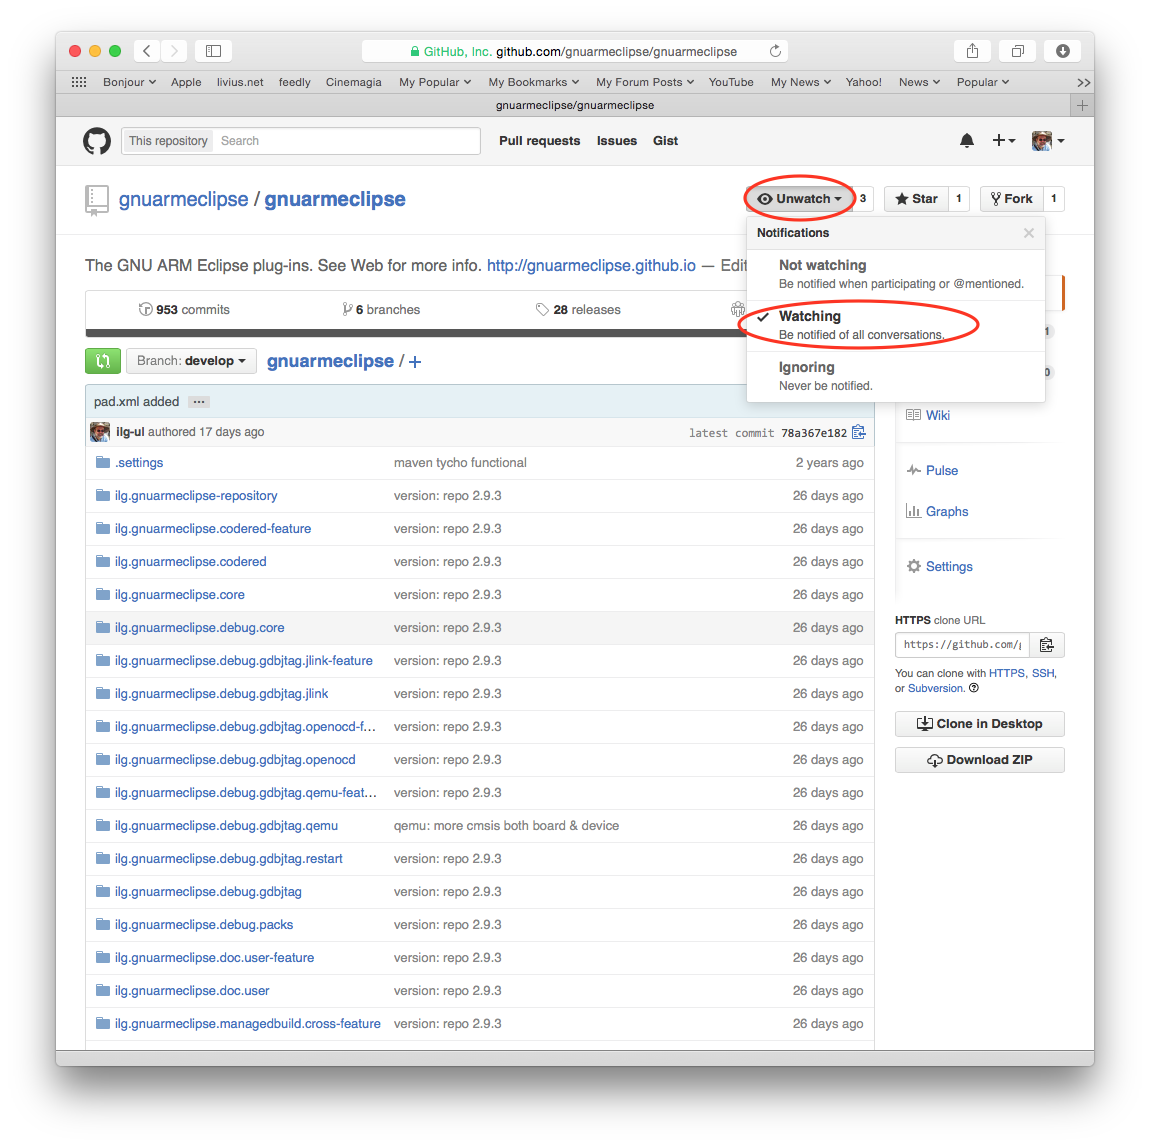
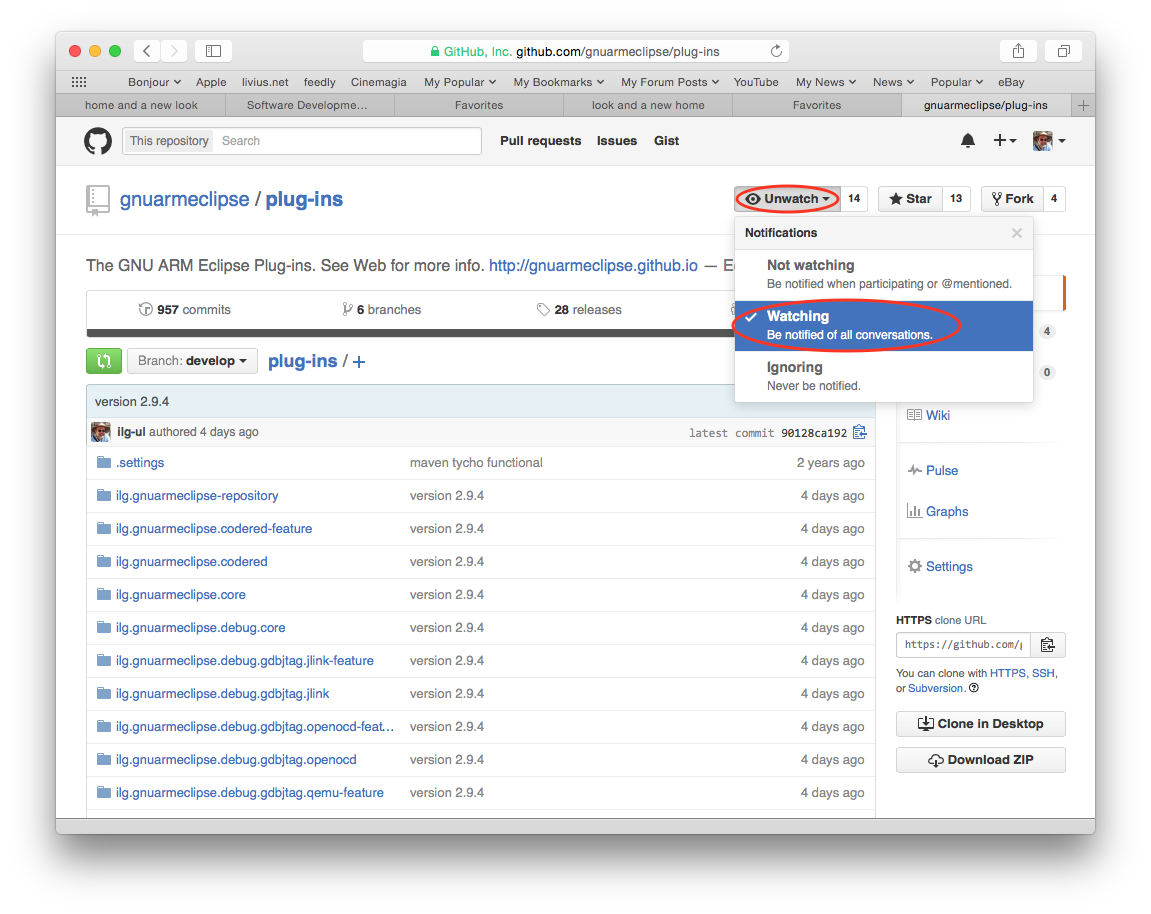
article on ARM Community added
- project Watching picture updated

Changed region(s): [[0.0304, 0.0306, 0.9739, 0.9803]]

diff --git a/site/articles/arm-com-2015-08.md b/site/articles/arm-com-2015-08.md
@@ -1,0 +1,84 @@
+---
+layout: page
+permalink: /articles/arm-com-2015-08/
+title: 'Article: The GNU ARM Eclipse project has a new look and a new home at GitHub'
+author: Liviu Ionescu
+
+date: 2015-09-28 10:21:00
+
+tags:
+  - gnu
+  - arm
+  - eclipse
+  - github,
+  - sourceforge
+  - jekyll
+  - gnuarmeclipse
+  - openocd
+  - qemu
+
+---
+
+<small>(This article was published in the [ARM Connected Community ](http://community.arm.com/groups/tools/blog/2015/09/29/the-gnu-arm-eclipse-project-has-a-new-look-and-a-new-home) blog, on 29.08.2015).</small>
+
+## Overview
+
+The **[GNU ARM Eclipse](https://github.com/gnuarmeclipse)** project includes a set of open source Eclipse plug-ins and tools to create/build/debug/manage **ARM** (32-bit) and **AArch64** (64-bit) applications and static/shared libraries, using the latest **GNU ARM GCC** toolchains. 
+
+## New look
+
+Starting with September 2015, the [GNU ARM Eclipse](http://gnuarmeclipse.github.io) web site has a completely new look:
+
+![GNU ARM Eclipse Home Page]({{ site.baseurl }}/images/2015/github-io-gae-home.png)
+
+Apart from the aspect (definitely cool!), the main functional change is the addition of the right sidebar, to facilitate access to the project documentation.
+
+The new site no longer uses WordPress; instead, it is entirely static and was generated with [Jekyll](http://jekyllrb.com).
+
+## New project home on GitHub
+
+With **GitHub** gaining more and more traction, the **GNU ARM Eclipse** project was migrated from [SourceForge](https://sourceforge.net/projects/gnuarmeclipse/) to [GitHub](https://github.com/gnuarmeclipse).
+
+![GNU ARM Eclipse GitHub Home]({{ site.baseurl }}/images/2015/github-gae-header.png)
+
+### Repositories
+
+The migration of repositories was easy, each project was pushed into its own repository.
+
+The current project repositories are:
+
+* [plug-ins](https://github.com/gnuarmeclipse/plug-ins)
+* [windows-build-tools](https://github.com/gnuarmeclipse/windows-build-tools)
+* [openocd](https://github.com/gnuarmeclipse/openocd)
+* [qemu](https://github.com/gnuarmeclipse/qemu)
+* [build-scripts](https://github.com/gnuarmeclipse/build-scripts)
+
+![GNU ARM Eclipse GitHub Projects]({{ site.baseurl }}/images/2015/github-gae-projects.png)
+
+### Binary files as Releases
+
+The migration of binary files was a bit more complicated, and, due to current GitHub limitations, is incomplete. The main problem was raised by the two Eclipse update sites, which require a certain folder structure, and since GitHub currently does not support adding folders to releases, the Eclipse update sites will remain hosted on SourceForge (at http://gnuarmeclipse.sourceforge.net/updates).
+
+Except the Eclipse update sites, all future binary files will be published as GitHub Releases, attached to the respective project repositories.
+
+The archive of past releases was also migrated from SourceForge to GitHub.
+
+![GNU ARM Eclipse GitHub Releases]({{ site.baseurl }}/images/2015/github-gae-releases.png)
+
+### Issues trackers
+
+The SourceForge trackers were replaced by the GitHub Issues trackers, one for each project.
+
+It is planned to preserve the content of the old SourceForge trackers, even if now they are locked and new tickets cannot be created there.
+
+### Notifications via watched projects
+
+For those interested in receiving notifications, the recommended way is to subscribe to the GitHub projects, by clicking the **Watch** button and selecting **Watching**).
+
+![GNU ARM Eclipse GitHub Watching]({{ site.baseurl }}/images/2015/github-gae-watching.png)
+
+In addition to the **gnuarmeclipse/plug-ins** project, it is also recommended to subscribe to the **gnuarmeclipse/gnuarmeclipse.github.io** project, to receive notifications for new Web posts.
+
+## More info
+
+For more details about the **GNU ARM Eclipse** project, please refer to the project site [http://gnuarmeclipse.github.io/](http://gnuarmeclipse.github.io/).

diff --git a/site/articles/arm-com-2014-07.md b/site/articles/arm-com-2014-07.md
@@ -1,12 +1,22 @@
 ---
 layout: page
 permalink: /articles/arm-com-2014-07/
-title: 'GNU ARM Eclipse: open source tools with (experimental) CMSIS Pack support'
+title: 'Article: GNU ARM Eclipse: open source tools with (experimental) CMSIS Pack support'
 author: Liviu Ionescu
 
 date: 2015-09-11 18:48:00
 
+tags:
+  - arm
+  - gnu
+  - gcc
+  - eclipse
+  - j-link
+  - cmsis-pack
+
 ---
+
+<small>(This article was published in the [ARM Connected Community ](http://community.arm.com/groups/tools/blog/2014/07/17/gnu-arm-eclipse-open-source-tools-with-experimental-cmsis-pack-support) blog, on 17.08.2014).</small>
 
 ## Overview
 

diff --git a/site/sidebar.md b/site/sidebar.md
@@ -115,6 +115,7 @@
 #### Articles
 
 * [GNU ARM Eclipse: open source tools with (experimental) CMSIS Pack support]({{ site.baseurl }}/articles/arm-com-2014-07/)
+* [GNU ARM Eclipse has a new look and a new home]({{ site.baseurl }}/articles/arm-com-2015-08/)
 
 #### Licenses
 
